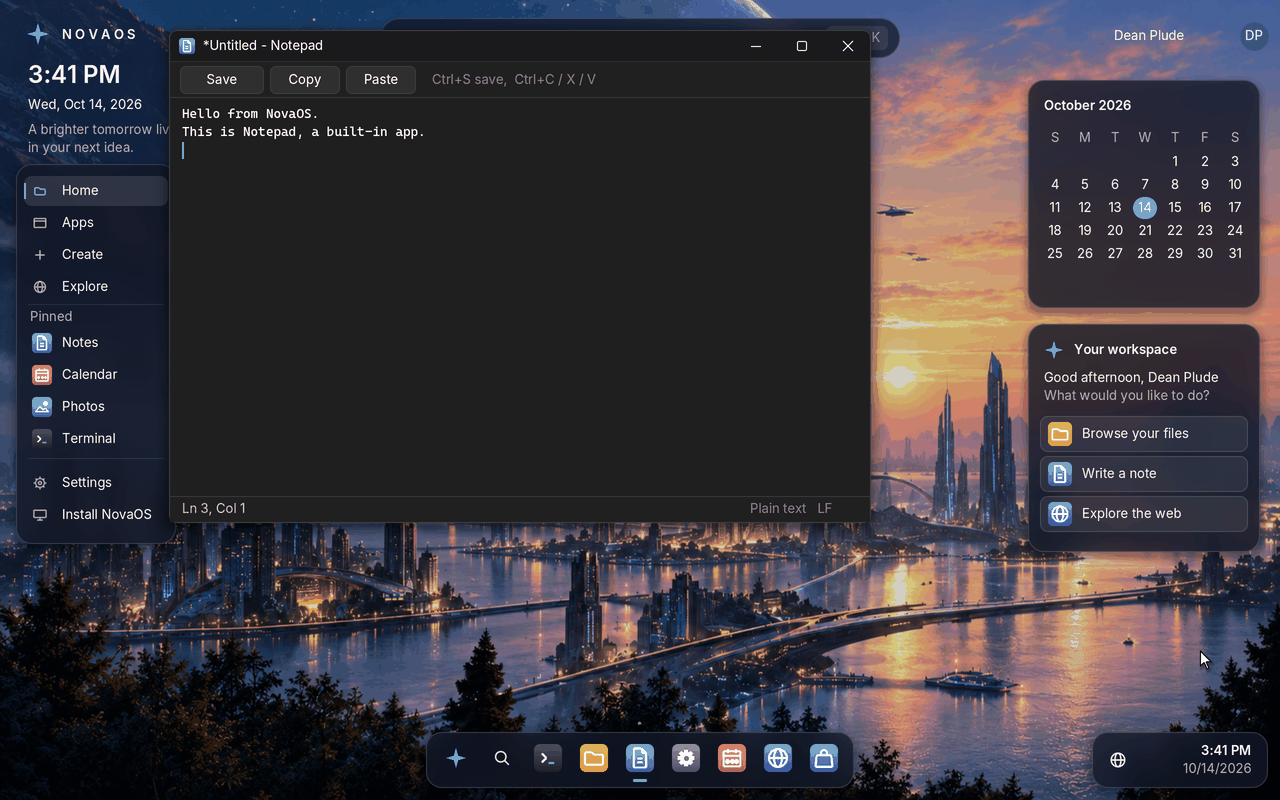
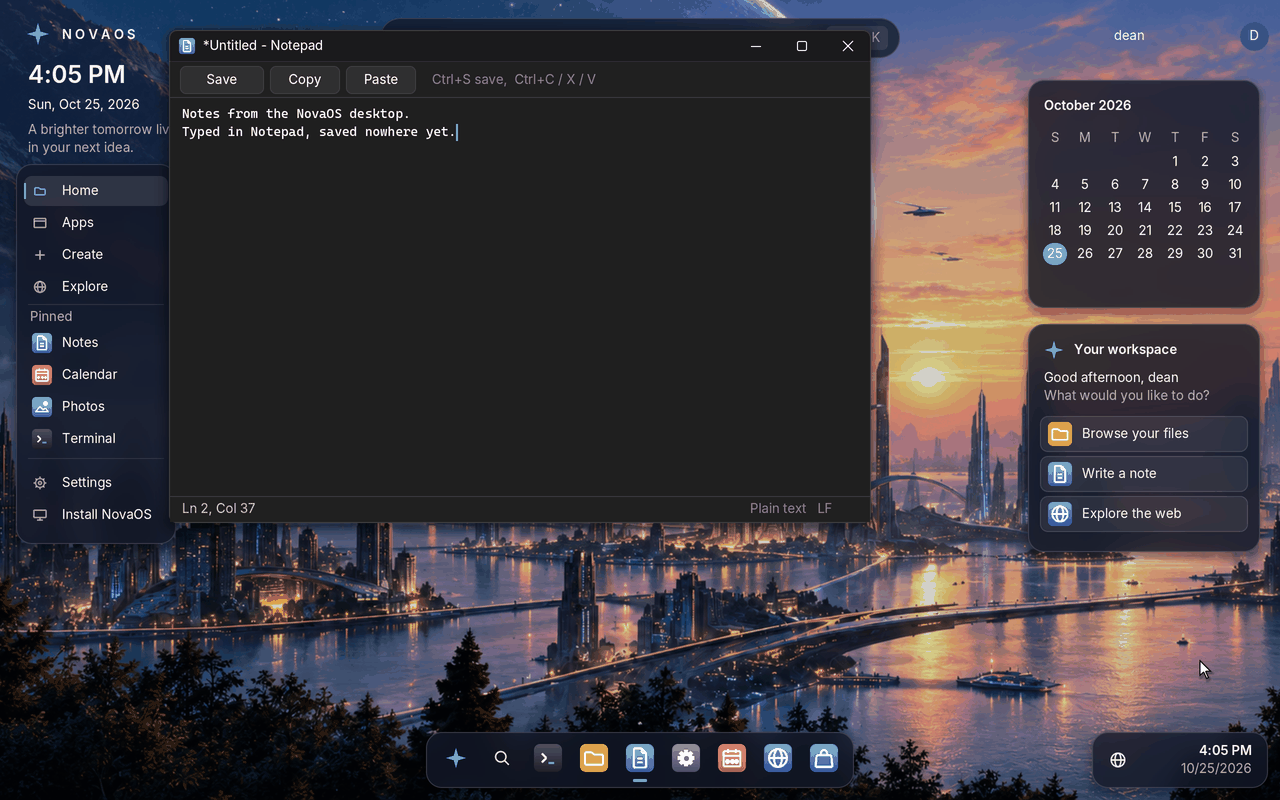
Docs sync 2026-10-25: re-take the desktop screenshots on 0.2
Re-takes eight screenshots from the latest ISO (main at 564e70d), booted
live in QEMU the way docs/screenshots/README.md describes:

- install.png: the installer now has a Where page and installs beside
  Windows (Phase 33.4).
- start-menu.png: Calculator, Device Manager, Event Viewer and Disk
  Management are among the programs.
- file-explorer.png: C:\Windows now holds INF, Temp and Web.
- terminal.png: sysinfo reports NovaOS 0.2.0.
- app-store.png: was still on the old Sunset desktop with 27 apps; the
  catalog has 57.
- desktop.png, notepad.png, calendar.png: same views on today's build.

Claude-Session: https://claude.ai/code/session_01VWjot3gzmqMREKpvU97iHc

diff --git a/docs/screenshots/README.md b/docs/screenshots/README.md
@@ -11,10 +11,10 @@ All are of NovaOS running in QEMU, saved as optimized PNG files.
 
 | File | Size | How it was taken |
 |---|---|---|
-| `desktop.png` | 1280x800 | The `latest` ISO of 2026-10-14 booted live in QEMU (q35, 4 CPUs, 4 GB, standard VGA at 2560x1600), the installer closed with Esc: the default Aurora desktop with nothing open.  Taken with QMP `screendump`. |
-| `install.png` | 1280x800 | The same boot before Esc: **Install NovaOS**, which a live start opens by itself. |
+| `desktop.png` | 1280x800 | The `latest` ISO of 2026-10-25 (main at `564e70d`) booted live in QEMU (q35, 4 CPUs, 4 GB, standard VGA with its default 16 MB, so the largest mode is 2560x1600), the installer closed with Esc: the default Aurora desktop with nothing open.  Taken with QMP `screendump`. |
+| `install.png` | 1280x800 | The same boot before Esc: **Install NovaOS**, which a live start opens by itself, on its Welcome page (it can install beside Windows). |
 | `notepad++.png` | 1280x800 | Notepad++ 8.8.3 portable (the app corpus's download) staged with `--put DIR=C:\Apps\npp`, opened on `kernel/ke/scheduler.c` staged in `C:\Projects\src`. |
-| `app-store.png` | 1280x800 | The App Store opened from the dock, with the Terminal minimized. |
+| `app-store.png` | 1280x800 | The App Store opened from the dock on the same boot, on All apps (the offline catalog); reduced to 256 colours. |
 | `task-manager.png`, `task-manager-performance.png` | 1280x800 | Task Manager opened with Ctrl+Shift+Esc over `winhello`, on Processes with `winhello.exe` selected and then on Performance: the screenshots `tests/selftest/core/166-taskmgr.py` takes (`tools/selftest.py --suite core --only taskmgr`), QEMU with 2 CPUs. |
 | `calculator.png`, `calculator-scientific.png`, `calculator-programmer.png` | 1280x800 (taken at 2560x1600) | Calculator started from the Start menu: Standard after 1 ÷ 7, Scientific after 25!, Programmer with 255 in hexadecimal: the screenshots `tests/selftest/core/168-calc.py` takes (`tools/selftest.py --suite core --only calc`), scaled down. |
 | `firefox.png`, `vlc.png`, `keepassxc.png`, `inkscape.png` | 1280x800 | Copies of the `tests/reference/` screenshots that `tools/appcorpus.py` takes of those programs. |
@@ -44,7 +44,7 @@ not a screenshot of NovaOS running, and
 
 These are not in the README's table; the [user guide](../user-guide.md)
 shows some of them.  The **fresh** ones come from the `latest` ISO of
-2026-10-14 booted live in QEMU (q35, 4 CPUs, standard VGA at 2560x1600,
+2026-10-25 booted live in QEMU (q35, 4 CPUs, standard VGA at 2560x1600,
 e1000e network card, USB tablet) with the installer closed by Esc, driven
 over QMP (`send-key`, `input-send-event`, `screendump`).  Shots with the
 Aurora wallpaper are reduced to 256 colours to keep them small.  The
